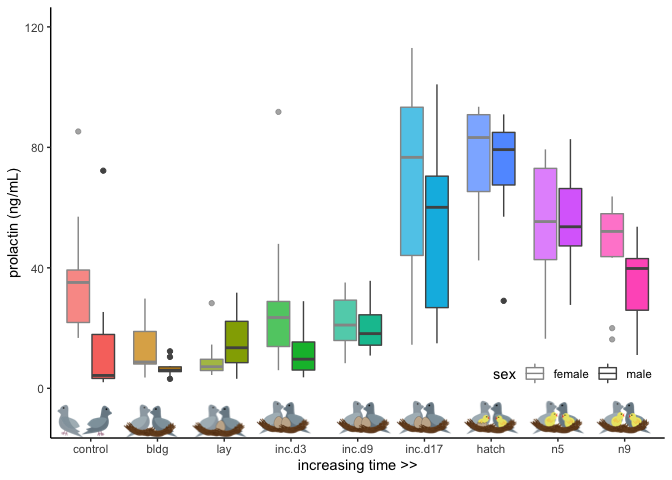
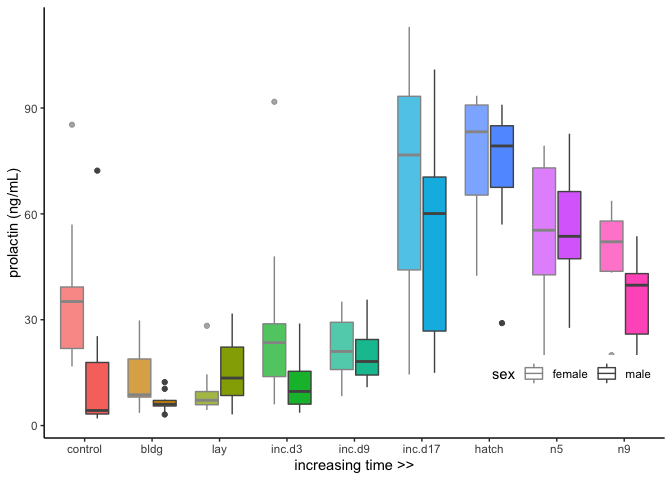
new combined PRL image

Changed region(s): [[0.0312, 0.0, 0.9688, 1.0], [0.4062, 0.2188, 0.4375, 0.25], [0.125, 0.3438, 0.1562, 0.375]]

diff --git a/analysis/16_PRL.md b/analysis/16_PRL.md
@@ -3,14 +3,14 @@ Plots with Prolactin
 
     library(tidyverse)
 
-    ## ── Attaching packages ────────────────────────────────────────────────────────────────────────────────────────────────────────── tidyverse 1.3.0 ──
+    ## ── Attaching packages ─────────────────────────────────────────────────────────────────────────────────────────── tidyverse 1.3.0 ──
 
     ## ✔ ggplot2 3.2.1     ✔ purrr   0.3.3
     ## ✔ tibble  2.1.3     ✔ dplyr   0.8.3
     ## ✔ tidyr   1.0.0     ✔ stringr 1.4.0
     ## ✔ readr   1.3.1     ✔ forcats 0.4.0
 
-    ## ── Conflicts ───────────────────────────────────────────────────────────────────────────────────────────────────────────── tidyverse_conflicts() ──
+    ## ── Conflicts ────────────────────────────────────────────────────────────────────────────────────────────── tidyverse_conflicts() ──
     ## ✖ dplyr::filter() masks stats::filter()
     ## ✖ dplyr::lag()    masks stats::lag()
 
@@ -94,7 +94,12 @@ Circulating levels of prolactin
              color = guide_legend(order=1)) +
         scale_alpha_manual(values = c(0.75,1)) +
         theme(legend.position = c(0.85,0.15), legend.direction = "horizontal") + 
-      labs(x = "increasing time >>", y = "prolactin (ng/mL)") +
+      labs(x = "increasing time >>", y = "prolactin (ng/mL)")
+    p1
+
+![](../figures/PRL/hormone-1.png)
+
+    p1 +
       annotation_custom(control, ymin = -20, ymax = 0, xmin = -7.8) +
       annotation_custom(bldg, ymin = -20, ymax = 0, xmin = -5.8) +
       annotation_custom(lay, ymin = -20, ymax = 0, xmin = -3.8) +
@@ -105,9 +110,8 @@ Circulating levels of prolactin
       annotation_custom(nestling, ymin = -20, ymax = 0, xmin = 6.4) +
       annotation_custom(nestling, ymin = -20, ymax = 0, xmin = 8.4) + 
       ylim(c(-10,120)) 
-    p1
 
-![](../figures/PRL/hormone-1.png)
+![](../figures/PRL/hormone-2.png)
 
 Prolactin (*PRL*) and *BRCA1* expression in the pituitary
 ---------------------------------------------------------
@@ -205,6 +209,24 @@ Prolactin (*PRL*) and *BRCA1* expression in the pituitary
     p2
 
 ![](../figures/PRL/PRL.pit-1.png)
+
+    plot_grid(p1 + theme(legend.position ="none",
+                         axis.title.x = element_blank(),
+                         axis.text.x = element_blank()),
+              p2 + theme(legend.position = c(0.85,0.3)) +
+                labs(subtitle = NULL) +
+      annotation_custom(control, ymin = 13.5, ymax = 15.5, xmin = -7.5) +
+      annotation_custom(bldg, ymin = 13.5, ymax = 15.5, xmin = -5.5) +
+      annotation_custom(lay, ymin = 13.5, ymax = 15.5, xmin = -3.5) +
+      annotation_custom(inc, ymin = 13.5, ymax = 15.5, xmin = -1.5) +
+      annotation_custom(inc, ymin = 13.5, ymax = 15.5, xmin = 0.5) +
+      annotation_custom(inc, ymin = 13.5, ymax = 15.5, xmin = 2.5) +
+      annotation_custom(hatch, ymin = 13.5, ymax = 15.5, xmin = 4.5) +
+      annotation_custom(nestling, ymin = 13.5, ymax = 15.5, xmin = 6.5) +
+      annotation_custom(nestling, ymin = 13.5, ymax = 15.5, xmin = 8.5), 
+              nrow = 2,rel_heights = c(0.4,0.6)) 
+
+![](../figures/PRL/hormonesandgenes-1.png)
 
     meanBRCA <- candidates.pit %>% 
         droplevels() %>% 
